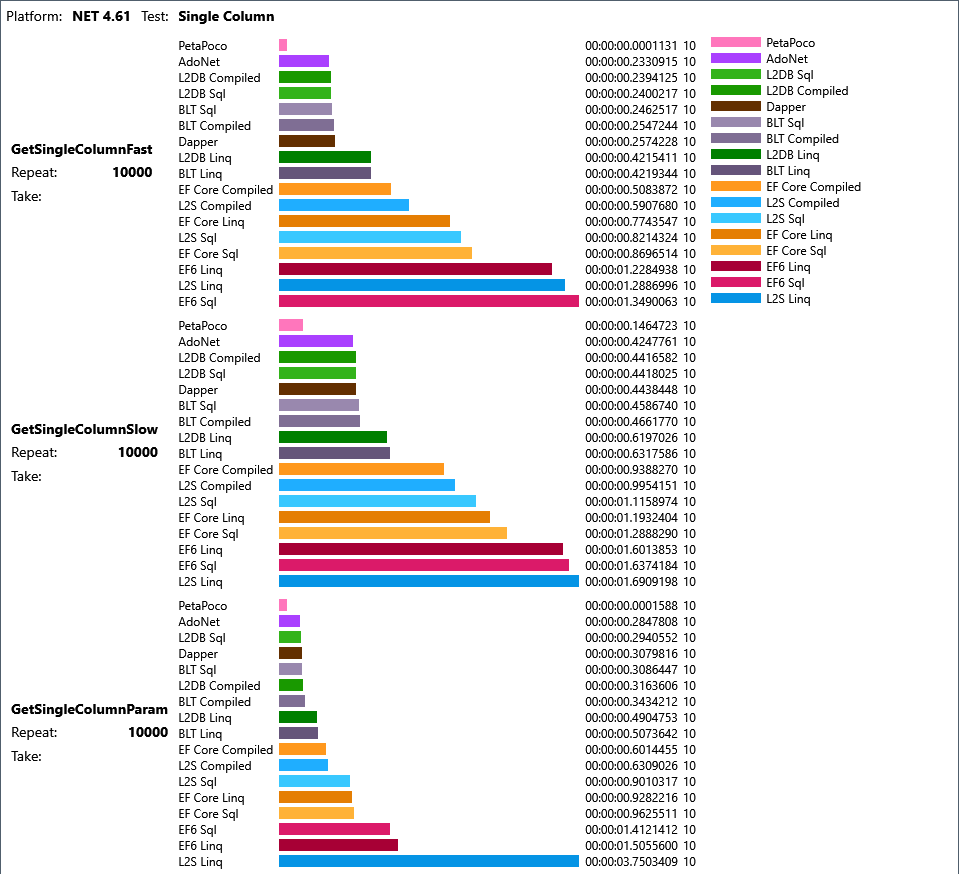
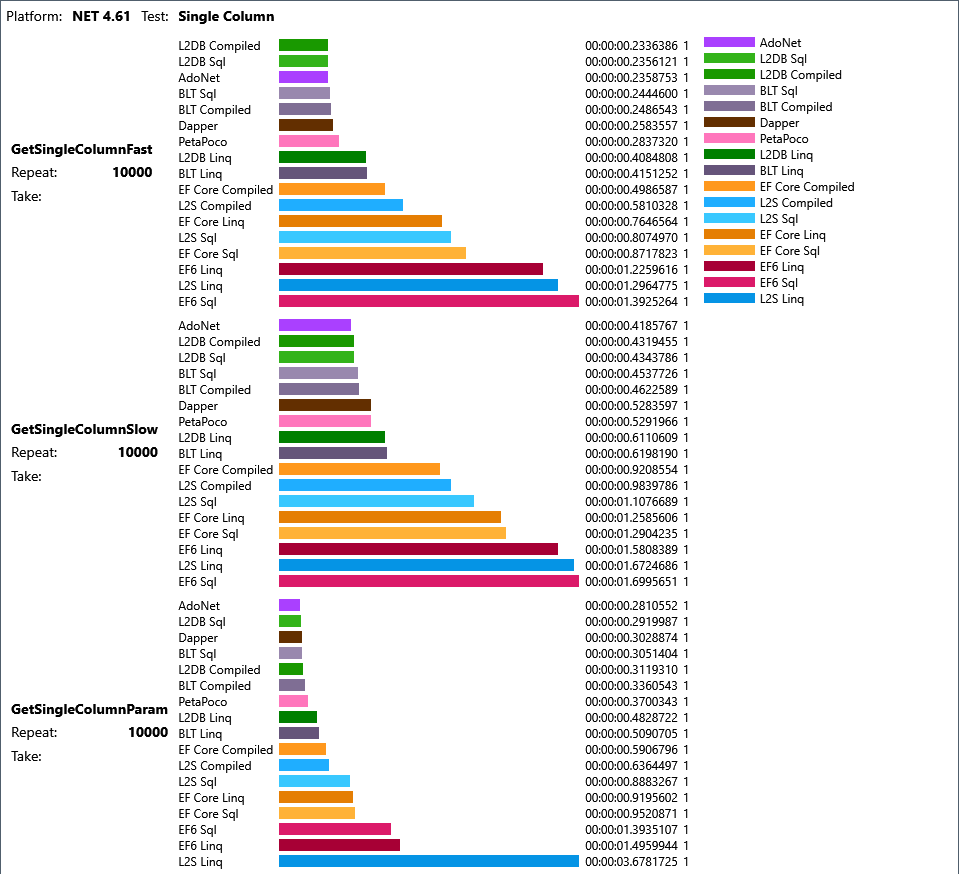
Fixed PetaPoco tests.

diff --git a/Source/PetaPoco/PetaPocoTests.cs b/Source/PetaPoco/PetaPocoTests.cs
@@ -1,6 +1,7 @@
 using System;
 using System.Data.SqlClient;
 using System.Diagnostics;
+using System.Linq;
 
 using PetaPoco;
 
@@ -27,7 +28,7 @@ namespace Tests.PetaPoco
 				con.Open();
 				using (var db = new Database(con))
 					for (var i = 0; i < repeatCount; i++)
-						db.Query<int>(GetSingleColumnSql);
+						db.Query<int>(GetSingleColumnSql).First();
 			}
 
 			watch.Stop();
@@ -46,7 +47,7 @@ namespace Tests.PetaPoco
 					con.Open();
 
 					using (var db = new Database(con))
-						db.Query<int>(GetSingleColumnSql);
+						db.Query<int>(GetSingleColumnSql).First();
 				}
 			}
 
@@ -64,7 +65,7 @@ namespace Tests.PetaPoco
 				con.Open();
 				using (var db = new Database(con))
 					for (var i = 0; i < repeatCount; i++)
-						db.Query<int>(GetParamSql, new {id = 1, p = 2});
+						db.Query<int>(GetParamSql, new {id = 1, p = 2}).First();
 			}
 
 			watch.Stop();
